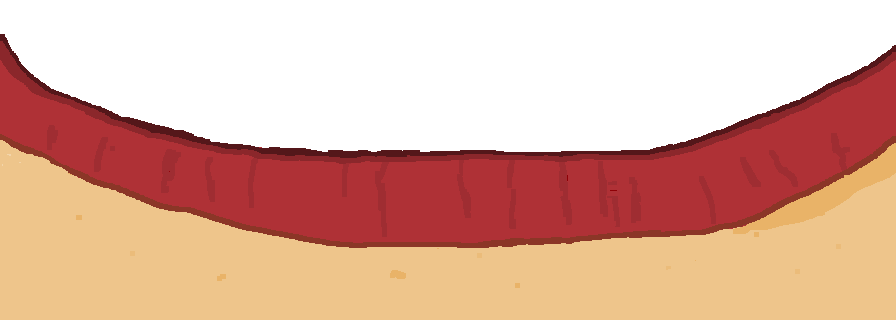
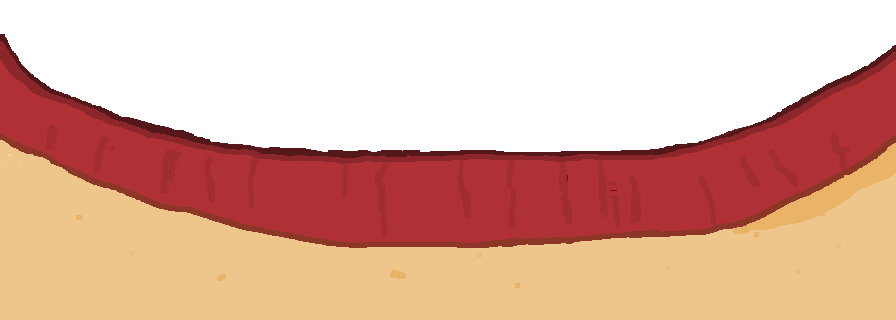
LIPS

Changed region(s): [[0.7188, 0.3125, 0.9062, 0.5]]

diff --git a/js/game.js b/js/game.js
@@ -58,7 +58,7 @@ function create() {
   initGroups(game);
 
   game.add.sprite(0, 0, 'topLip');
-  game.add.sprite(0, getGridPixel(6) + 36, 'bottomLip');
+  game.add.sprite(0, getGridPixel(5), 'bottomLip');
 
   //toothbrush is on the top of it all, so it shoudl be last.
   toothbrush = game.add.sprite(0, 0, 'toothbrush');
